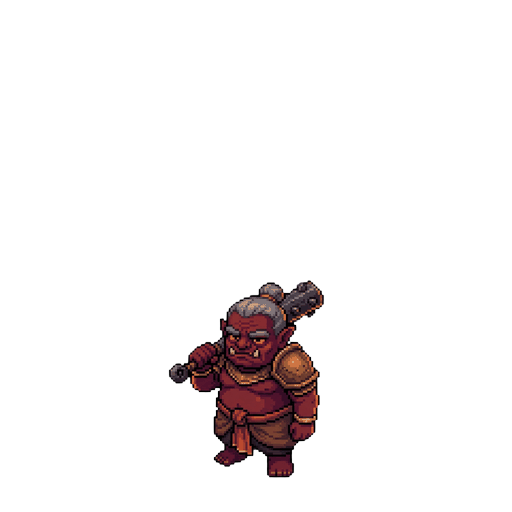
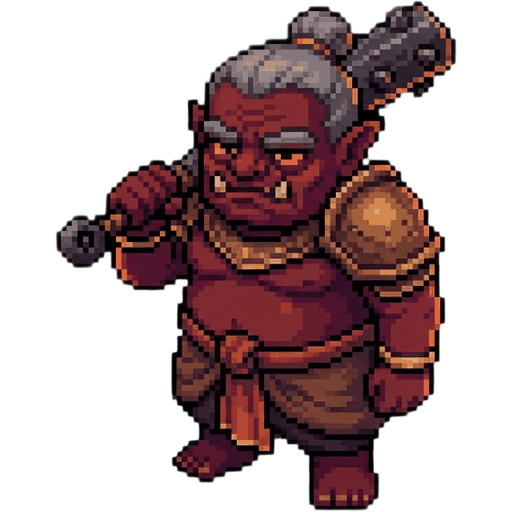
รูปจริงครบชุดตัวละคร + พื้น 3 แบบ
แก้บั๊กใน prep-art.py ที่ทำให้ตัวละครถูกย่อเหลือครึ่งเดียวของที่ควรเป็น:
generator ทิ้ง alpha จาง ๆ (ค่า 1-10) กระจายทั่วผืน getbbox() เลยคืนภาพเต็มใบ
แปลว่าไม่ได้ตัดขอบใสเลย ตัวละครเลยจมอยู่กลางผืนว่าง
เปลี่ยนไปหา bbox จาก mask ที่ threshold alpha >= 16 แล้วล้าง alpha จาง ๆ ทิ้ง
ตอนนี้ยมทูตทั้งหกยืนสูงเท่ากันบนเส้นพื้นเดียวกัน

เอา hero-yama / hero-boss มาใช้งานจริง (ก่อนหน้านี้ gen มาแล้วไม่มีที่ลง):
- hero-yama เป็นรูปประจำตัวผู้เล่นบนหัวเว็บ
- hero-boss ขึ้นในโมดัลพญายม — ทักตอนเปิดเกม และตอนตรวจการทุกรอบ
  ผลตรวจการเดิมมีแค่บรรทัดใน log ซึ่งเบาไปสำหรับจังหวะที่ชี้เป็นชี้ตายของเกม

Claude-Session: https://claude.ai/code/session_012HrRVL2ZUEJ95yHNrFG4Sx

diff --git a/src/ui.js b/src/ui.js
@@ -175,6 +175,18 @@ function openEnding(o) {
     <div class="row"><button class="gold" onclick="location.reload()">เริ่มใหม่</button></div>`);
 }
 
+/** โมดัลที่มีพญายมนั่งบัลลังก์อยู่ข้าง ๆ (รูปหายก็ยังอ่านได้) */
+function bossModal(title, text, btn = 'รับทราบ') {
+  const was = g.paused; g.paused = true; updatePlay();
+  modal(`<h2>${esc(title)}</h2>
+    <div class="boss">
+      <img src="img/hero-boss.png" alt="" onerror="this.remove()">
+      <p style="line-height:var(--leading-body);margin:0">${esc(text)}</p>
+    </div>
+    <div class="row"><button class="gold" data-close>${esc(btn)}</button></div>`);
+  dlg.addEventListener('close', () => { g.paused = was; updatePlay(); }, { once: true });
+}
+
 function openHelp() {
   modal(`<h2>วิธีเล่น</h2>
     <p style="line-height:var(--leading-body);font-size:var(--text-sm)">
@@ -233,6 +245,14 @@ cv.onclick = e => {
 g.onChange = () => {
   refresh();
   if (g.over) { g.paused = true; updatePlay(); openEnding(g.over); return; }
+  if (g.pendingKpi) {
+    const k = g.pendingKpi; g.pendingKpi = null;
+    bossModal(k.pass ? 'ตรวจการ — ผ่าน' : 'ตรวจการ — ไม่ผ่าน',
+      k.pass
+        ? `"ระเบียบ ${Math.round(g.order)} คะแนนเฉลี่ย ${k.avg} ... พอใช้ได้" ท่านพูดแค่นั้นแล้วก็เงียบ — ผ่านแล้ว ${g.kpiPassed} จาก 3 รอบ`
+        : `"ระเบียบ ${Math.round(g.order)} คะแนนเฉลี่ย ${k.avg}" ท่านอ่านตัวเลขออกเสียงช้า ๆ ทีละตัว แล้วไม่พูดอะไรต่อ`);
+    return;
+  }
   if (g.pendingEvent) {
     const ev = g.pendingEvent; g.pendingEvent = null;
     const was = g.paused; g.paused = true; updatePlay();
@@ -243,3 +263,8 @@ g.onChange = () => {
 };
 
 updatePlay(); refresh(); requestAnimationFrame(frame);
+
+bossModal('โซนสุวรรณภูมิ',
+  '"สามร้อยปีที่แล้วโซนนี้มีผู้คุมสิบสองคน ตอนนี้เหลือสามคนกับกองสำนวนสูงเท่าตัวเจ้า ' +
+  'ข้าไม่สนว่าเจ้าจะทำยังไง แต่จำไว้ข้อเดียว — ทัณฑ์ที่เกินกรรม มันไม่ได้หายไปไหน มันมาอยู่ที่ผู้ตัดสิน"',
+  'เริ่มงาน');

diff --git a/index.html b/index.html
@@ -38,7 +38,9 @@ body{
 .wrap{max-width:1240px;margin:0 auto;padding:var(--space-4);display:flex;flex-direction:column;gap:var(--space-3);min-height:100%}
 
 /* ---------- แถบทรัพยากร ---------- */
-header{display:flex;align-items:center;gap:var(--space-4);flex-wrap:wrap}
+header{display:flex;align-items:center;gap:var(--space-3);flex-wrap:wrap}
+#ava{image-rendering:pixelated;object-fit:contain;object-position:bottom;
+  background:var(--card);border:1px solid var(--border);border-radius:var(--radius-sm);padding:2px}
 h1{font-family:var(--font-display);font-size:1.5rem;margin:0;color:var(--gold);letter-spacing:.5px}
 h1 small{display:block;font-family:var(--font-sans);font-size:var(--text-xs);color:var(--muted-foreground);font-weight:400;letter-spacing:0}
 .res{display:flex;gap:var(--space-2);flex-wrap:wrap;margin-left:auto}
@@ -104,6 +106,9 @@ dialog{border:1px solid var(--border);border-radius:var(--radius);background:var
   color:var(--card-foreground);max-width:520px;width:calc(100% - 32px);padding:var(--space-5);font:inherit}
 dialog::backdrop{background:rgba(10,4,6,.78)}
 dialog h2{font-family:var(--font-display);color:var(--gold);margin:0 0 var(--space-3);font-size:1.25rem}
+.boss{display:flex;gap:var(--space-4);align-items:flex-start}
+.boss img{image-rendering:pixelated;width:132px;height:132px;object-fit:contain;object-position:bottom;flex:none}
+@media(max-width:520px){.boss{flex-direction:column;align-items:center;text-align:center}}
 .field{margin-bottom:var(--space-4)}
 .field>label{display:block;font-size:var(--text-xs);color:var(--muted-foreground);margin-bottom:6px}
 .opts{display:flex;gap:6px;flex-wrap:wrap}
@@ -121,6 +126,7 @@ footer{color:var(--muted-foreground);font-size:var(--text-xs);text-align:center;
 <body>
 <div class="wrap">
   <header>
+    <img id="ava" src="img/hero-yama.png" alt="" width="52" height="52" onerror="this.remove()">
     <h1>อเวจี<small>นรกโซนสุวรรณภูมิ · ยมบาทฝึกหัด</small></h1>
     <div class="res" id="res"></div>
   </header>

diff --git a/scripts/prep-art.py b/scripts/prep-art.py
@@ -26,9 +26,15 @@ OUT = os.path.join(ROOT, 'img')
 
 def prep(path, name):
     im = Image.open(path).convert('RGBA')
-    box = im.getbbox()                       # 1. ตัดขอบใส
-    if box:
-        im = im.crop(box)
+    # 1. ตัดขอบใส — ต้องใช้ threshold ไม่ใช่ getbbox() ตรง ๆ
+    #    generator ทิ้ง alpha จาง ๆ (1-10) กระจายทั่วผืน getbbox() เลยคืนภาพเต็มใบ
+    #    ผลคือตัวละครถูกย่อจนเหลือครึ่งเดียวของที่ควรเป็น
+    if im.mode == 'RGBA':
+        alpha = im.getchannel('A')
+        box = alpha.point(lambda v: 255 if v >= 16 else 0).getbbox()
+        if box:
+            im = im.crop(box)
+        im.putalpha(im.getchannel('A').point(lambda v: 0 if v < 16 else v))
     if name == 'tileset':                    # atlas ห้ามยืด ปล่อยผ่าน
         im.save(os.path.join(OUT, name + '.png'))
         return im.size
